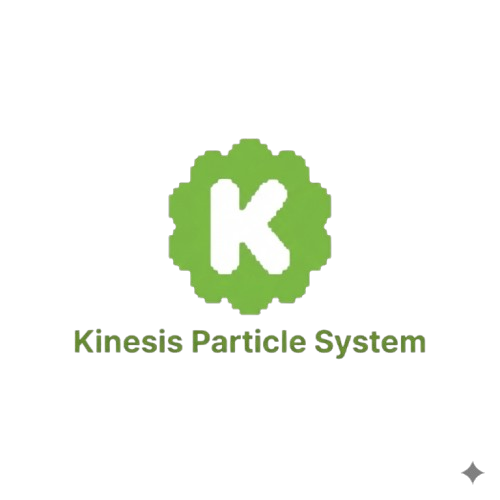
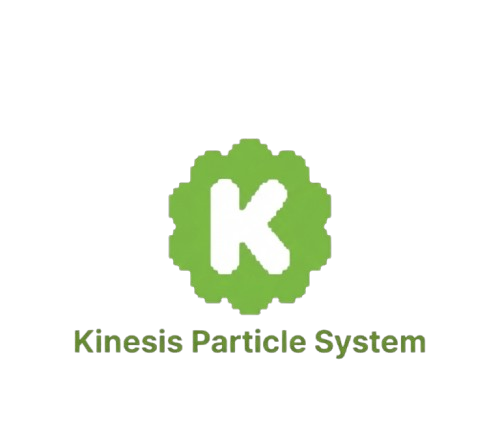
Centered the image

Changed region(s): [[0.15, 0.2635, 0.87, 0.8198], [0.93, 0.9077, 0.96, 0.9662]]

diff --git a/README.md b/README.md
@@ -1,8 +1,10 @@
 # ✨ Kinesis Particle System
 
-![Kinesis Particle System Logo](assets/Images/KParticleSystem.png)
-
 ![Platform](https://img.shields.io/badge/Platform-C%2B%2B-blue) ![Build](https://img.shields.io/badge/Build-CMake-brightgreen)
+
+<p align="center">
+    <img src="assets/Images/KParticleSystem.png" alt="Kinesis Particle System Logo" style="width:50%;">
+</p>
 
 > **A C++ particle system editor with real-time controls via ImGui, built on Raylib. Create, tweak, and export beautiful particle effects with ease.**
 
